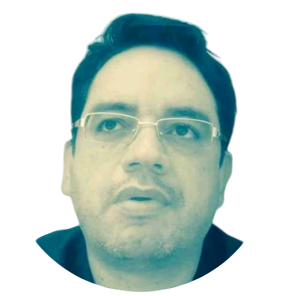
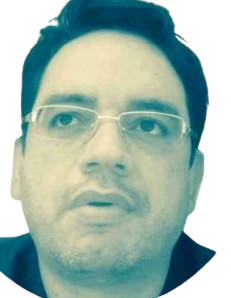
Actualización de estilos de último doctor

diff --git a/index.html b/index.html
@@ -880,12 +880,19 @@
             </div>
 
             <div
-              class="col-lg-3 col-md-6 d-flex"
+              class="col-lg-3 col-md-6 d-flex align-items-stretch"
               data-aos="fade-up"
-              data-aos-delay="200"
+              data-aos-delay="400"
             >
               <div class="team-member">
-                <div class="member-img">
+                <div
+                  class="member-img"
+                  style="
+                    padding-left: 40px;
+                    padding-right: 40px;
+                    padding-bottom: 15px;
+                  "
+                >
                   <img
                     src="assets/img/doctors/juanMartinez.png"
                     class="img-fluid"
